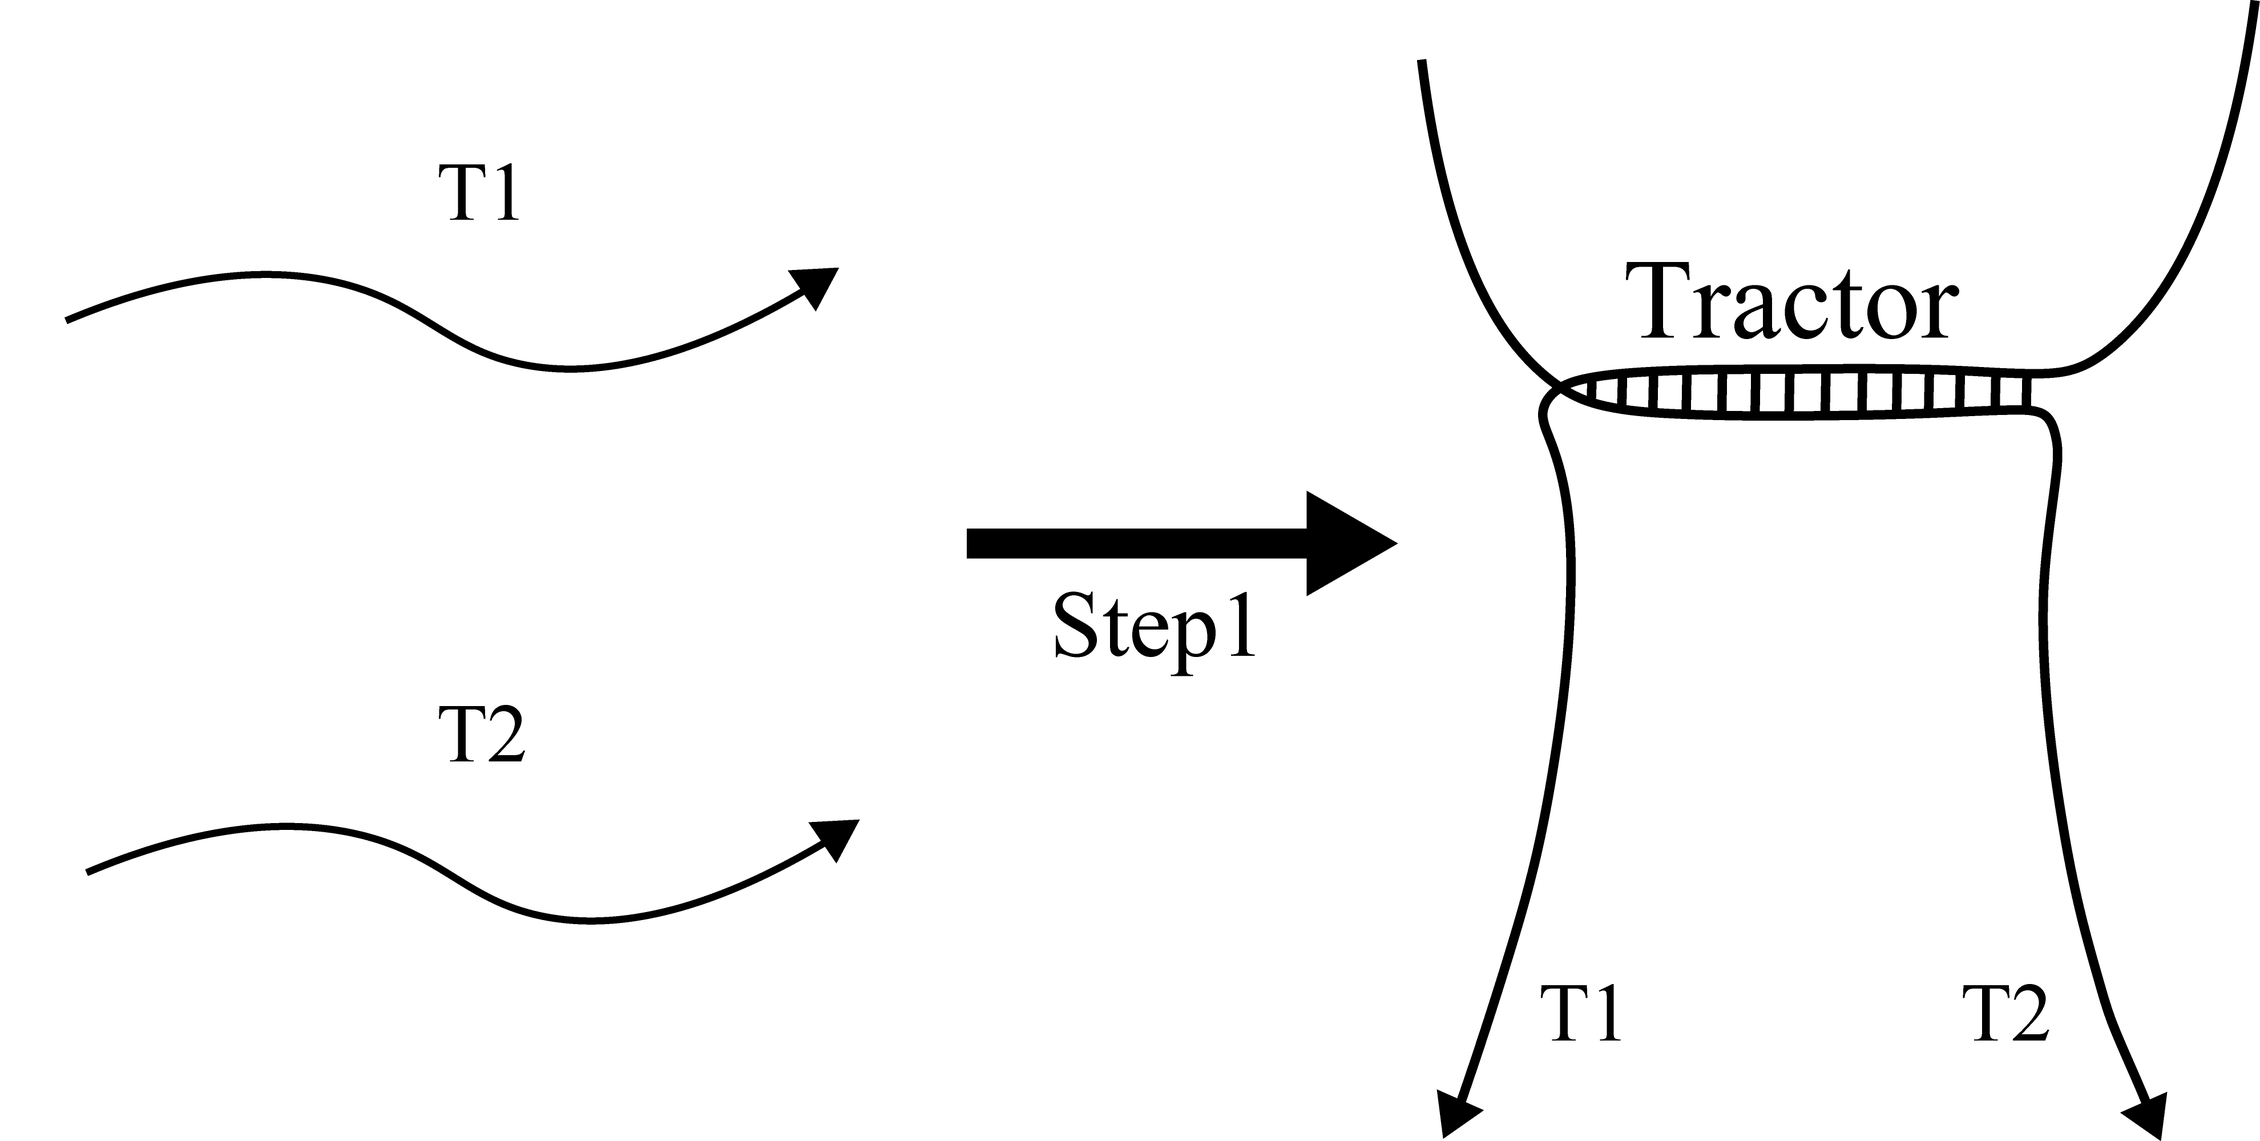
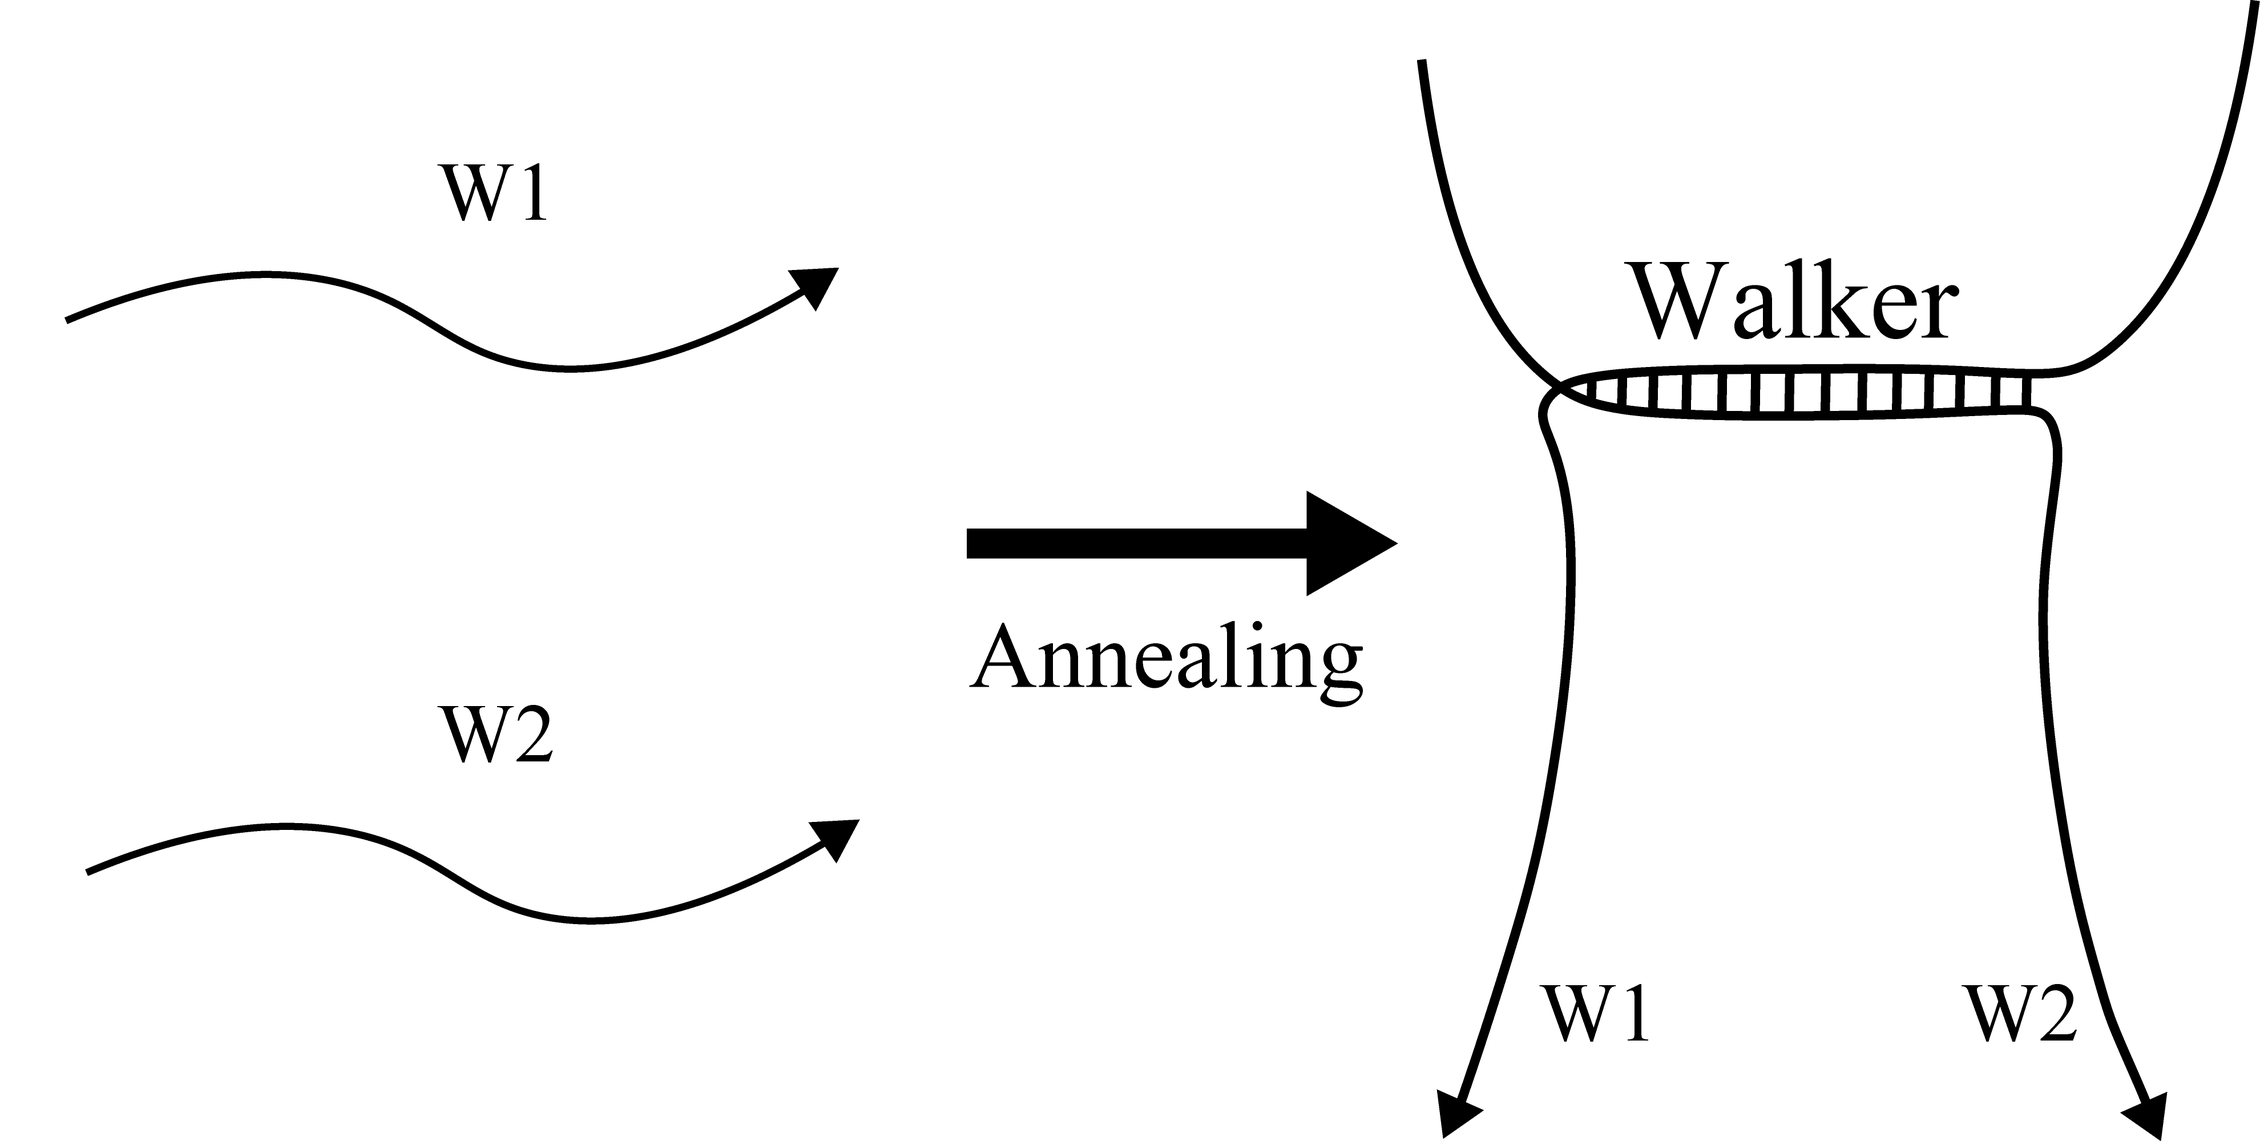
s

diff --git a/experiment.html b/experiment.html
@@ -41,8 +41,44 @@
 				<h1 id="wet">Wet Experiment</h1>
 Experiment1 Groundの設計
 <p>
+DNA Walkerが走行する足場となるDNA構造物(Ground)がきちんと作られるのかを確認する。この際、適切なアニーリング条件を見つけるために、アニーリング時間を1，5，10時間の3パターン準備した。。
+Groundは図に示すようにGround A,B,Cをインキュベートすることで作成される。我々は、適切にGround A,B,Cが一本鎖DNAのC1,C2を介して結合していることを確認するため次のような電気泳動実験を行った。
+Ground A,B,Cはそれぞれ70bp程度なのでGroundは200bp程度であることが予測できる。しかし、アニーリング時間を1，5，10時間で変化させたどの場合であったとしても200bp付近にバンドを持つような結果を得ることはできなかった。
+今回、ヘアピン構造をもつS1,S2は加えずにアニーリングを行ったため、G1,G2,G3が一本鎖の状態で存在している場所があり、その部分から更に小さく折りたたまれるような構造になったのではないかと考えられる。
+
 </p>
-Experiment2 ミスマッチ塩基対を含む鎖置換反応
+<p>
+Confirm whether the DNA structure (Ground) that is the track on which DNA Walker runs is properly made. In this case, three patterns of annealing time of 1, 5, and 10 hours were prepared in order to find an appropriate annealing condition. Ground is created by incubating Ground A, B, C as shown in the figure. In order to confirm that Ground A, B and C are properly bound via C1 and C2 of single-stranded DNA, we carried out the following electrophoresis experiments. Since Ground A, B, C are each about 70 bp, it can be predicted that Ground is about 200 bp. However, it was impossible to obtain a result having a band near 200 bp in any cases where the annealing time was changed in 1, 5, 10 hours. Since annealing was carried out without S1 and S2 having a hairpin structure this time, there is a place where G1, G2, G3 are present in a single-stranded state, and the structure is such that it is folded further smaller from that part what it was.
+</p>
+<img src="img/Ground(Experiment2).png" alt="" width="70%">
+
+	<div class="imgarea">
+					<div>
+					<table border=1>
+
+<tr><th>Wells</th><th>試薬</th></tr>
+<tr><th>①</th><th>DNAラダー</th></tr>
+<tr><th>②</th><th>Ground A + B + C (1 h)</tl></tr>
+<tr><th>③</th><th>Ground A + B  (1 h)</th></tr>
+<tr><th>④</th><th>Ground B + C (1 h)</th></tr>
+<tr><th>⑤</th><th>Ground A + B + C (5 h)</th></tr>
+<tr><th>⑥</th><th>Ground A + B  (5 h)</th></tr>
+<tr><th>⑦</th><th>Ground B + C (5 h)</th></tr>
+<tr><th>⑧</th><th>Ground A + B + C (10 h)</th></tr>
+<tr><th>⑨</th><th>Ground A + B  (10 h)</th></tr>
+<tr><th>⑩</th><th>Ground B + C (10 h)</th></tr>
+<tr><th>⑪</th><th>C1</th></tr>
+<tr><th>⑫</th><th>C2</th></tr>
+
+				</table>
+					</div>
+					<div>
+					<img src="img/Experiment1.png" alt="" width="70%">
+					</div>
+				</div>
+
+
+Experiment2 DSD containing mismatched base pair
 <p>
 </p>
 
@@ -51,12 +87,12 @@ Experiment2 ミスマッチ塩基対を含む鎖置換反応
 
 			<li>
 				<h1 id="dry">Dry Experiment</h1>
-				<p>私たちはTractorの進み具合がFuelの濃度に依存することを確認するためにMatlab[1]を用いてシミュレーションを行った。TractorとGroundの初期濃度は100(nM)とし、Fuelの初期濃度を50,100,150,200(nM)としてOutputの時間濃度変化をシミュレーションした。さらに、時刻を10000(sec)に固定しFuelの初期濃度を0から500nMにまで変化させた際のOutputの濃度変化のシミュレーションを行った。
+				<p>私たちはTractorの進み具合がFuelの濃度に依存することを確認するためにMatlab<sup>[1]</sup>を用いてシミュレーションを行った。TractorとGroundの初期濃度は100(nM)とし、Fuelの初期濃度を50,100,150,200(nM)としてOutputの時間濃度変化をシミュレーションした。さらに、時刻を10000(sec)に固定しFuelの初期濃度を0から500nMにまで変化させた際のOutputの濃度変化のシミュレーションを行った。
 図１から４より、Outputの濃度変化がFuelの初期濃度に依存していることが確認でき、図５よりFuelの初期濃度が一定の値を越えると急激にOutputの濃度が上昇していることが読み取れる。また、Spotの段数を１段、２段、３段と増やすにつれて、閾値を超えた際のOutputの濃度上昇が急激になっていることがわかる。
 
 				</p>
 <p>
-We simulated with Matlab[1] to confirm that the process of Walker depends on the initial concentration of Fuel. We simulated the time concentration change of Output after setting the initial concentration of Walker and Ground in 100 nM, and Fuel in 50,100,150,200 nM. Also, we simulated the time concentration change of Output when changing the initial concentration of Fuel from 0 to 500 nM with fixing time as 10000 seconds. From figure 1 to 4 we find that the time concentration change of Output depends on the initial concentration of Fuel, and figure 5 says that the concentration of Output increased rapidly when the initial concentration of Fuel is given more than specific value. Additionally, concentration of Output has increased rapidly above threshold as increase levels of Spot one by one (Version A,B, and C).
+We simulated with Matlab<sup>[1]</sup> to confirm that the process of Walker depends on the initial concentration of Fuel. We simulated the time concentration change of Output after setting the initial concentration of Walker and Ground in 100 nM, and Fuel in 50,100,150,200 nM. Also, we simulated the time concentration change of Output when changing the initial concentration of Fuel from 0 to 500 nM with fixing time as 10000 seconds. From figure 1 to 4 we find that the time concentration change of Output depends on the initial concentration of Fuel, and figure 5 says that the concentration of Output increased rapidly when the initial concentration of Fuel is given more than specific value. Additionally, concentration of Output has increased rapidly above threshold as increase levels of Spot one by one (Version A,B, and C).
 	</p>
 				<div class="imgarea">
 					<div>
@@ -86,8 +122,8 @@ We simulated with Matlab[1] to confirm that the process of Walker depends on the
 			<li>
 				<h1 id="gr">Reference</h1>
 			<p>
-[1]Matlab: http://jp.mathworks.com/products/matlab/
-</p>
+				[1]Matlab: <a href="http://jp.mathworks.com/products/matlab/">http://jp.mathworks.com/products/matlab/</a>
+			</p>
 
 			</li><!--Refference-->
 

diff --git a/index.html b/index.html
@@ -42,14 +42,14 @@
 我々はDNAナノ構造物が自律的に一方向に駆動する方法を提案する。2本のDNA鎖が部分的に結合し、更に2本鎖部分の両端に1本鎖の領域のあるDNAWalkerと呼ばれる構造体を使用した。Walkerは、ヘアピン構造を持つ同一塩基配列の1本鎖DNA(Spot)が連続的に配置された2本鎖DNA(Ground)の上を走行する。Walkerは自身の1本鎖領域を足がかりとしてSpotと鎖置換反応を起こし隣のSpotへと移動する。すると、再びWalkerとSpotとの鎖置換反応が起こりWalkerは自発的にGround上を進んでいく。Walkerの進み具合は燃料DNAの初期濃度に依存するため、初期濃度を調整することでWalkerの進み具合が調節可能である。我々はDNAWalkerの塩基配列にミスマッチ塩基対を加え、意図しない反応経路を取らないようにした。更に、WalkerをDNAオリガミに接続可能な設計に変更しDNAオリガミ構造物を動かす力として利用できるようにした。複数のWalkerが合わさって構造物を動かす様子をサンタクロースのソリを数匹のトナカイが引っ張る様子に見立て『Nano Santa Claus’s Reindeers』と名付けた。
 </p>
 <p>
-We proposed a method of DNA nanostructures autonomously driving in one direction. 
-A structure called DNAWalker in which two DNA strands were partially bound and a single-stranded region was present at both ends of the double-stranded portion was used. 
-Walker runs on a double-stranded DNA (Ground) in which single-stranded DNA (Spot) of the same base sequence with a hairpin structure is continuously arranged. 
-Walker uses its single strand region as a toehold and causes a strand displacement reaction with Spot and moves to the next Spot. 
-Then, the strand displacement reaction between Walker and Spot takes place again and the Walker spontaneously travels on Ground. 
-Since the progress of Walker depends on the initial concentration of fuel DNA, the progress of Walker can be controlled by adjusting the initial concentration. 
-We added mismatched base pairs to the nucleotide sequence of DNAWalker so as not to take unintended reaction pathway. 
-In addition, we changed a structure of the Walker in order to connect to the DNA origami so this arrange made it available as a force to move the DNA origami structure. 
+We proposed a method of DNA nanostructures autonomously driving in one direction.
+A structure called DNAWalker in which two DNA strands were partially bound and a single-stranded region was present at both ends of the double-stranded portion was used.
+Walker runs on a double-stranded DNA (Ground) in which single-stranded DNA (Spot) of the same base sequence with a hairpin structure is continuously arranged.
+Walker uses its single strand region as a toehold and causes a strand displacement reaction with Spot and moves to the next Spot.
+Then, the strand displacement reaction between Walker and Spot takes place again and the Walker spontaneously travels on Ground.
+Since the progress of Walker depends on the initial concentration of fuel DNA, the progress of Walker can be controlled by adjusting the initial concentration.
+We added mismatched base pairs to the nucleotide sequence of DNAWalker so as not to take unintended reaction pathway.
+In addition, we changed a structure of the Walker in order to connect to the DNA origami so this arrange made it available as a force to move the DNA origami structure.
 We associated the view of a number of reindeer pulling Santa Claus sled with a plurality of Walkers together moving the structure so we named it "Nano Santa Claus's Reindeers".
 </p>
 		</div>
@@ -61,45 +61,45 @@ We associated the view of a number of reindeer pulling Santa Claus sled with a p
 		<div id="container">
 
 			<div class="contents" id="Project">
-				<div id="t4"  dir="right" class="shutter color1" to="project" stat="closed">
+				<div id="t4"  dir="right" class="shutter color1" to="project.html" stat="closed">
 					<p>Our Project</p>
-					<img src="img/openr.png" alt="" style="position: absolute; bottom: 0; right:0;">
+					<img src="img/openr.png" alt="" style="position: absolute; bottom: 0; right:0;width: 200px;">
 				</div>
 			</div>
 
 			<div class="contents" id="Design">
-				<div id="t1" dir="left" class="shutter color4" to="design" stat="closed">
+				<div id="t1" dir="left" class="shutter color4" to="design.html" stat="closed">
 					<p>Design</p>
-					<img src="img/openl.png" alt="" style="position: absolute; bottom: 0; left:0;">
+					<img src="img/openl.png" alt="" style="position: absolute; bottom: 0; left:0;width: 200px;">
 				</div>
 
 			</div>
 			<div class="contents" id="MatMet">
-				<div id="t2"  dir="right" class="shutter color3" to="method"  stat="closed">
+				<div id="t2"  dir="right" class="shutter color3" to="method.html"  stat="closed">
 					<p style="-webkit-transform: translateY(-85%); /* Safari用 */
 				  transform: translateY(-85%); line-height: 1em">Material<br>&amp;<br>Methods</p>
-					<img src="img/openr.png" alt="" style="position: absolute; bottom: 0; right:0;">
+					<img src="img/openr.png" alt="" style="position: absolute; bottom: 0; right:0;width: 200px;">
 				</div>
 			</div>
 
 			<div class="contents" id="Experiment">
-				<div id="t3" dir="left" class="shutter color2" to="experiment" stat="closed">
+				<div id="t3" dir="left" class="shutter color2" to="experiment.html" stat="closed">
 					<p>Experiment</p>
-					<img src="img/openl.png" alt="" style="position: absolute; bottom: 0; left:0;">
+					<img src="img/openl.png" alt="" style="position: absolute; bottom: 0; left:0;width: 200px;">
 				</div>
 			</div>
 
 
 			<div class="contents" id="Discuss">
-				<div id="t3" dir="right" class="shutter color2" to="discuss" stat="closed">
+				<div id="t3" dir="right" class="shutter color2" to="discuss.html" stat="closed">
 					<p>Disucussion</p>
-					<img src="img/openr.png" alt="" style="position: absolute; bottom: 0; right:0;">
+					<img src="img/openr.png" alt="" style="position: absolute; bottom: 0; right:0;width: 200px;">
 				</div>
 			</div>
 			<div class="contents" id="Member">
-				<div id="t4"  dir="left" class="shutter color1" to="member" stat="closed">
+				<div id="t4"  dir="left" class="shutter color1" to="member.html" stat="closed">
 					<p>Member</p>
-					<img src="img/openl.png" alt="" style="position: absolute; bottom: 0; left:0;">
+					<img src="img/openl.png" alt="" style="position: absolute; bottom: 0; left:0; width: 200px;">
 				</div>
 			</div>
 		</div>

diff --git a/discuss.html b/discuss.html
@@ -38,7 +38,7 @@
 	<div id="kiji">
 		<ol class="kijilist">
 			<li>
-				<h1>ミスマッチ塩基対</h1>
+				<h1>DNA mismatch base pair</h1>
 				<p>
 				ミスマッチ塩基対とは望む鎖同士は結合しつつも、意図しない鎖同士が結合をしないように部分的に相補でない配列に置き換えることを言う。
 				鎖が結合して２本鎖になる時、それぞれの鎖で相補となる組み合わせが多いので結合するのだから、その組み合わせを意図的に減らして結合しなくするという仕組みである。
@@ -46,10 +46,31 @@
 				〇と書いてある組み合わせは結合することを表し、×と書いてある組み合わせは結合しないことを表している。
 				望まない結合であるS1とS4において、一部相補でない塩基配列に置き換えることで相補の部分を減少させ結合しないようにする。
 				</p>
-			</li>
+<p>
+A mismatched base pair means replacing a desired sequence with a sequence which is not partially complementary so as to bind desired chains but not unintended chains. When chains are joined into two strands, since there are many combinations that complement each of the chains, they are linked, so that the combination is intentionally reduced so as not to combine them. For example, consider a base sequence that satisfies the specifications shown in the table. A combination written ◯ indicates that the combination is to be combined, and a combination written as X indicates that the combination is not combined. In S1 and S4 which are unwanted bonds, by replacing them with base sequences which are not partially complementary, complementary portions are decreased so as not to bind.
+		</p>		
+</li>
 			<li>
-				<h1>流体力学の観点からのTractorの個数予測</h1>
+				<h1>Design of DNA origami</h1>
+	<p>
+This structure is a combination of DNA Walker and DNA origami digitized in plate form. Walker moves in one direction so that the connected plate-like DNA origami is moved in a sliding manner.
+ Furthermore, since the amount of movement of the structure depends on the amount of movement of Walker, it can be adjusted. A design drawing by caDNAno[2] is shown below. Fig. 1 is a design drawing of a structure (roof) in which a walker is connected to a plate-like DNA origin. Fig. 2 is a design drawing of a structure (referred to as a floor) in which a single-stranded DNA serving as a foot of Walker is connected to a plate-like Origami. Fig. 3 is a moving image simulated by CanDo[3] of these design drawings. By combining these, we believe that it is possible to realize a structure of DNA that can control the amount of movement by input.
+	</p>
 			</li>
+	</li><!--Refference-->
+			<li>
+				<h1 id="gr">Reference</h1>
+			<p>
+[1] <br>
+[2] caDNAno:http://cadnano.org/ <br>
+M. Douglas, Adam H. Marblestone, Surat Teerapittayanon, Alejandro Vazquez, George M. Church, William M. Shih. Rapid prototyping of 3D DNA-origami shapes with caDNAno. Nucleic Acids Research, 37, 5001-5006 , 2009 <br>
+[3] CanDo:http://cando-dna-origami.org/<br>
+
+Carlos Ernesto Castro, Fabian Kilchherr, Do-Nyun Kim, Enrique Lin Shiao, Tobias Wauer, Philipp Wortmann, Mark Bathe, Hendrik Dietz. A primer to scaffolded DNA origami. Nature Methods, 8, 221-229, 2011 
+
+
+
+			</li><!--Refference-->
 		</ol>
 	</div>
 	<p id="page-top"><a href="#">PAGE TOP</a></p>

diff --git a/method.html b/method.html
@@ -105,7 +105,7 @@
 
 				Ground C
 				<p>
-				Hairpin S1 and Spot4 which is composed of single strands S3, S4 were mixed with single strands G3 and S4, then annealed to produce Ground C.
+				Hairpin S1 and single strands S3, S4 were mixed with single strands G3 and S4, then annealed to produce Ground C.
 
 				<img src="img/Ground3.png" alt="" width="60%">
 
@@ -121,7 +121,7 @@
 				</p>
 				<img src="img/Ground.png" alt="" width="60%">
 
-				Tractor & Ground A
+				Walker & Ground A
 				<p>
 				Ground A and the pre- assembled Walker were incubated at room temperature for 2 hours to produce Walker & Ground A.
 				</p>
@@ -131,7 +131,7 @@
 	<p>
 	Fuel is made of annealed F1 and F2 which are single DNA strands. 
 	</p>
-	<img src="img/Tractor.png" alt="" width="40%">
+	<img src="img/Fuel.png" alt="" width="40%">
 				<table border=1>
 				<tr><th>Name</th><th>Base sequences (5'&rarr;3')</th></tr>
 				 <tr><td class="kusari">F1</td><td>TGTGAAGCGAGAACTCGTGGTGAGATGTCTCCCTCAATCAGCACCTCAACTCGCATCCTCA
@@ -143,7 +143,7 @@
 			</li><!--Type &amp; Strands-->
 
 			<li>
-				<h1 id="wedt">Wet Experiment of DNA Tractor</h1>
+				<h1 id="wedt">Wet Experiment of DNA Walker</h1>
 Sample Preparation<br>
 				Step.1 Dilute
 				<p>

diff --git a/css/base.css b/css/base.css
@@ -115,7 +115,7 @@ a.anchor{
 	-webkit-align-content: space-between; /* Safari */
   align-content:         space-between;
 	padding: 30px 0px;
-	background-color: #F0F7F4;;
+	background-color: #eff8e2;
 	font-weight: bold;
 }
 
@@ -583,4 +583,8 @@ table td.kusari{
 .imgarea ol li{
 	font-size: 50% !important;
 	margin-left: 10px !important;
+}
+
+.back{
+	background-color: #eff8e2;
 }
